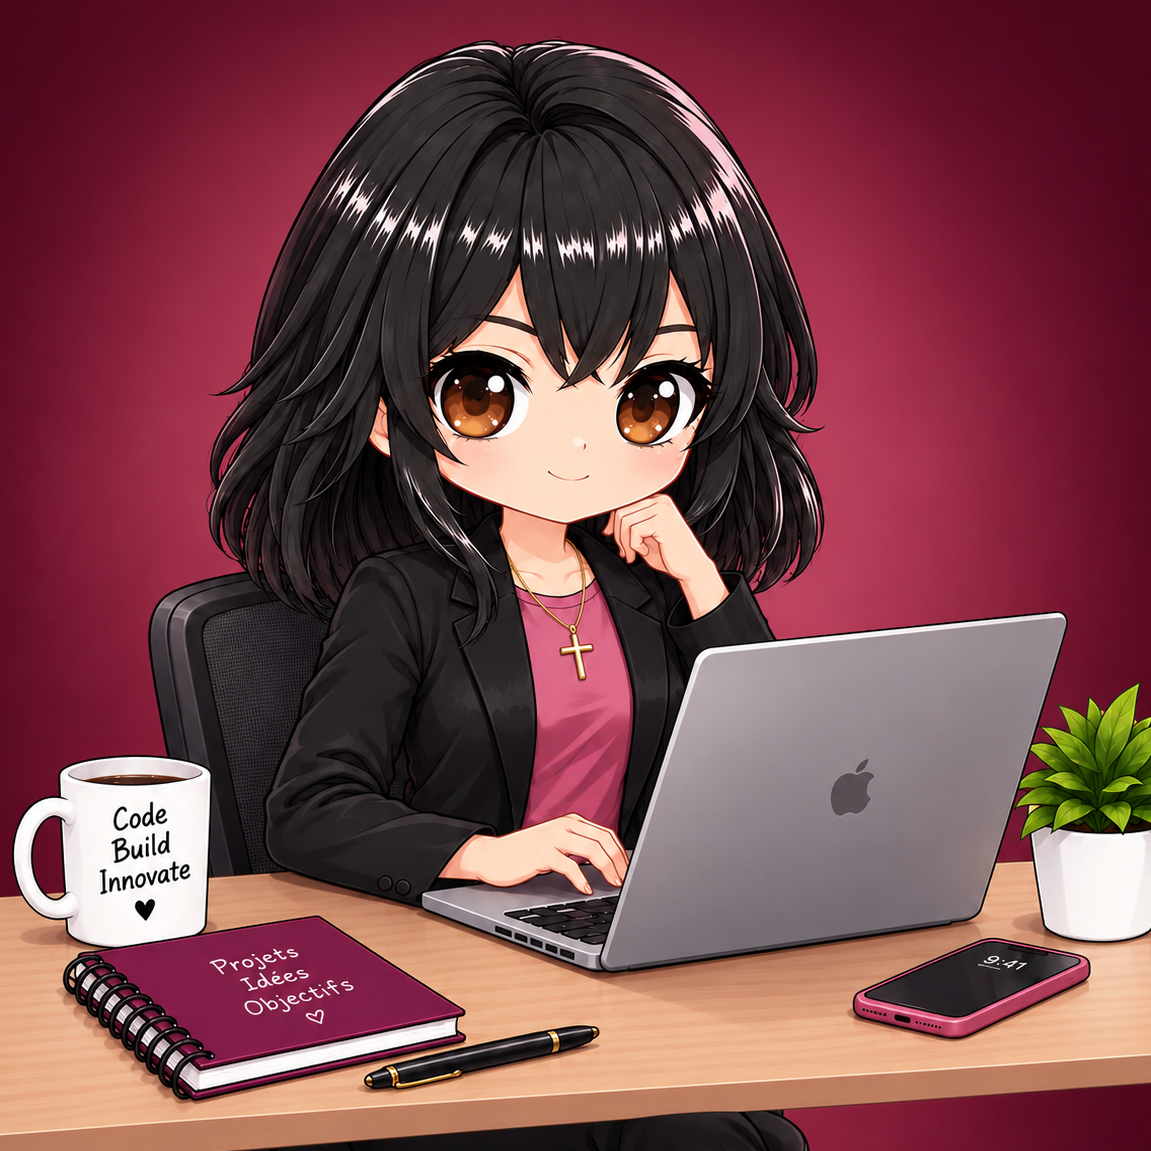
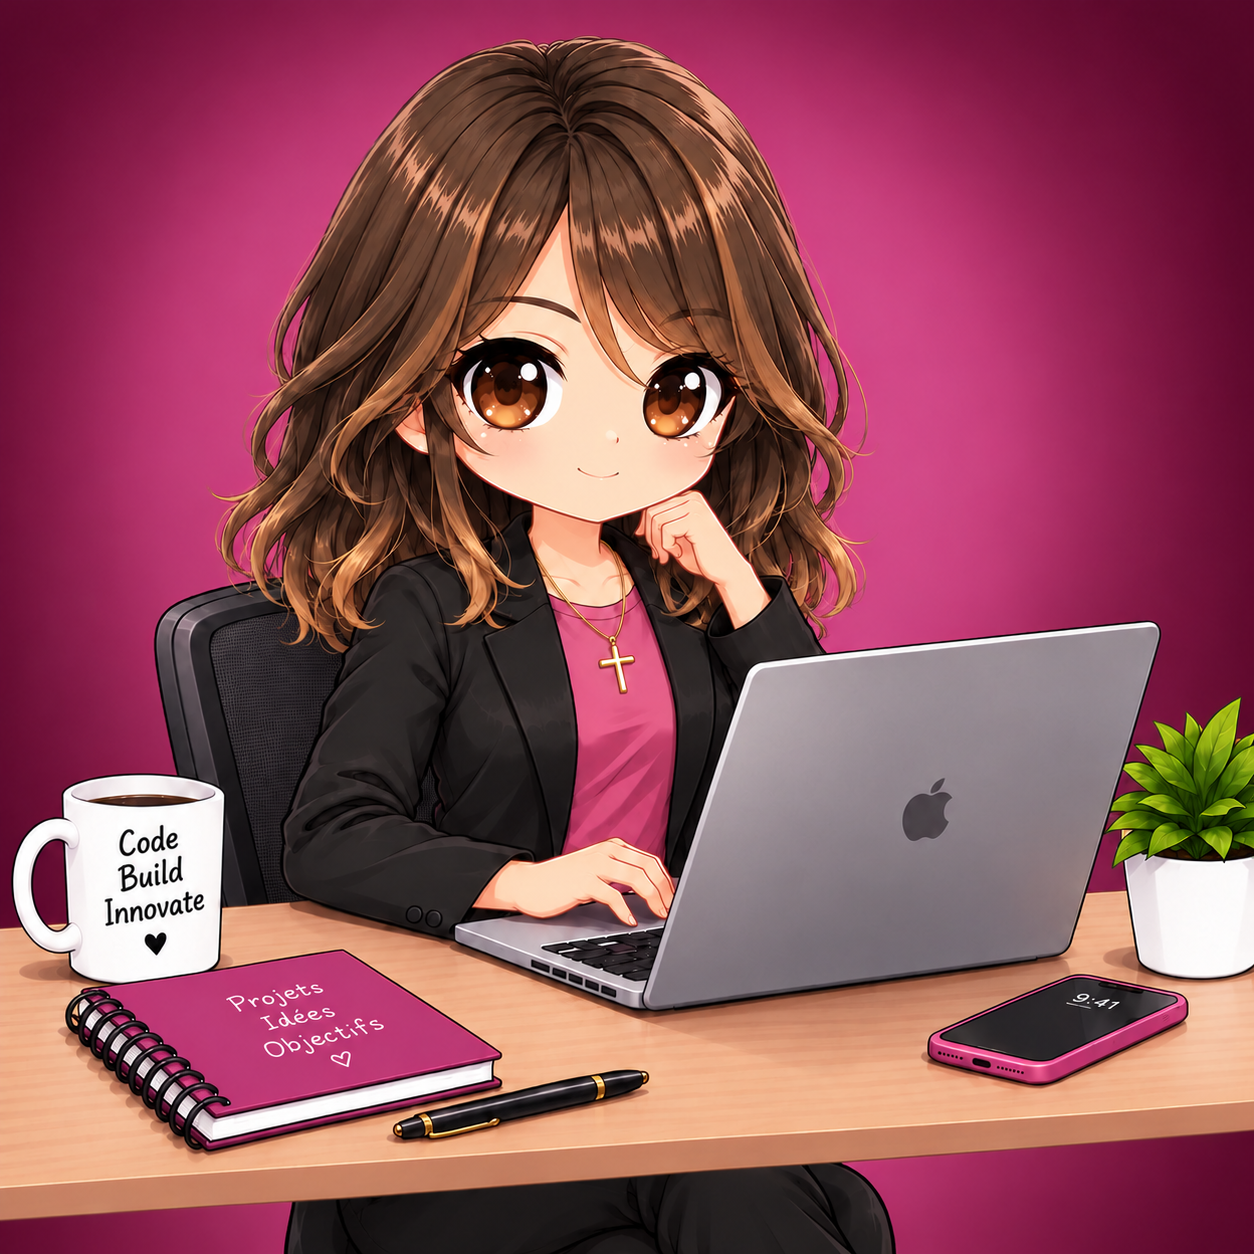
update image and colors

diff --git a/README.md b/README.md
@@ -1,6 +1,6 @@
  <div align="center">
 
-<img src="https://capsule-render.vercel.app/api?type=waving&color=6d071a&height=200&section=header&text=Priscilla%20MEZOUAR&fontSize=45&fontColor=ffffff&animation=fadeIn" width="100%" alt="Bannière Priscilla Mezouar" />
+<img src="https://capsule-render.vercel.app/api?type=waving&color=b4377e&height=200&section=header&text=Priscilla%20MEZOUAR&fontSize=45&fontColor=ffffff&animation=fadeIn" width="100%" alt="Bannière Priscilla Mezouar" />
 
 <img src="./priscilla-mezouar.png" width="200" alt="Portrait de Priscilla Mezouar" />
 
@@ -125,7 +125,7 @@ Mon objectif : continuer à renforcer mes compétences techniques pour concevoir
 Vous souhaitez échanger autour du développement web, d'un projet ou d'une opportunité professionnelle ? N'hésitez pas à me contacter !
 
 [![LinkedIn](https://img.shields.io/badge/LinkedIn-0A66C2?style=for-the-badge&logo=linkedin&logoColor=white)](https://linkedin.com/in/pmezouar)
-[![Email](https://img.shields.io/badge/Email-6d071a?style=for-the-badge&logo=gmail&logoColor=white)](mailto:mezouar.priscilla@gmail.com)
+[![Email](https://img.shields.io/badge/Email-b4377e?style=for-the-badge&logo=gmail&logoColor=white)](mailto:mezouar.priscilla@gmail.com)
 
 ---
 
@@ -133,9 +133,9 @@ Vous souhaitez échanger autour du développement web, d'un projet ou d'une oppo
 
 <div align="center">
 
-<img src="https://github-readme-stats.shion.dev/api?username=pmezouar&show_icons=true&bg_color=6d071a&title_color=a98941&text_color=ffffff&icon_color=a98941&border_color=6d071a&hide_border=false" alt="Statistiques GitHub de Priscilla" />
+<img src="https://github-readme-stats.shion.dev/api?username=pmezouar&show_icons=true&bg_color=b4377e&title_color=a98941&text_color=ffffff&icon_color=a98941&border_color=b4377e&hide_border=false" alt="Statistiques GitHub de Priscilla" />
 
-<img src="https://github-readme-stats.shion.dev/api/top-langs/?username=pmezouar&layout=compact&bg_color=6d071a&title_color=a98941&text_color=ffffff&border_color=6d071a&hide_border=false" alt="Langages les plus utilisés sur GitHub" />
+<img src="https://github-readme-stats.shion.dev/api/top-langs/?username=pmezouar&layout=compact&bg_color=b4377e&title_color=a98941&text_color=ffffff&border_color=b4377e&hide_border=false" alt="Langages les plus utilisés sur GitHub" />
 
 </div>
 
